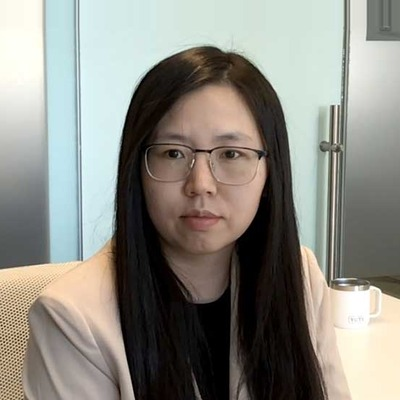
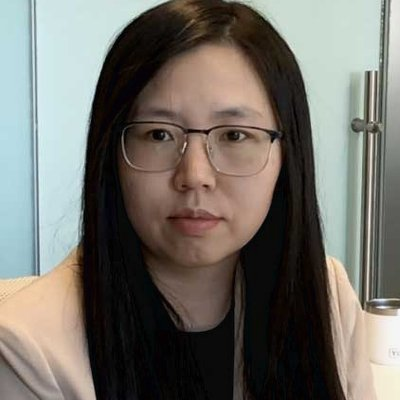
fix(team): 苏/杨头像圈90px还原 + 人脸裁切2.0x(tighter)

diff --git a/bones-strategy.html b/bones-strategy.html
@@ -955,11 +955,11 @@ blockquote { border-left:3px solid #0096f0; padding:14px 22px; margin:24px 0; ba
 <p style="font-size:11px;font-weight:700;margin-top:6px;color:#333">Seungmoon Song</p>
 </div>
 <div style="text-align:center">
-<img src="img/lili_su-headshot.jpg" alt="苏丽丽" style="width:95px;height:95px;border-radius:50%;object-fit:cover;box-shadow:0 2px 8px rgba(0,0,0,.12)">
+<img src="img/lili_su-headshot.jpg" alt="苏丽丽" style="width:90px;height:90px;border-radius:50%;object-fit:cover;box-shadow:0 2px 8px rgba(0,0,0,.12)">
 <p style="font-size:11px;font-weight:700;margin-top:6px;color:#333">苏丽丽</p>
 </div>
 <div style="text-align:center">
-<img src="img/pengkun_yang-headshot.jpg" alt="杨朋昆" style="width:95px;height:95px;border-radius:50%;object-fit:cover;box-shadow:0 2px 8px rgba(0,0,0,.12)">
+<img src="img/pengkun_yang-headshot.jpg" alt="杨朋昆" style="width:90px;height:90px;border-radius:50%;object-fit:cover;box-shadow:0 2px 8px rgba(0,0,0,.12)">
 <p style="font-size:11px;font-weight:700;margin-top:6px;color:#333">杨朋昆</p>
 </div>
 </div>